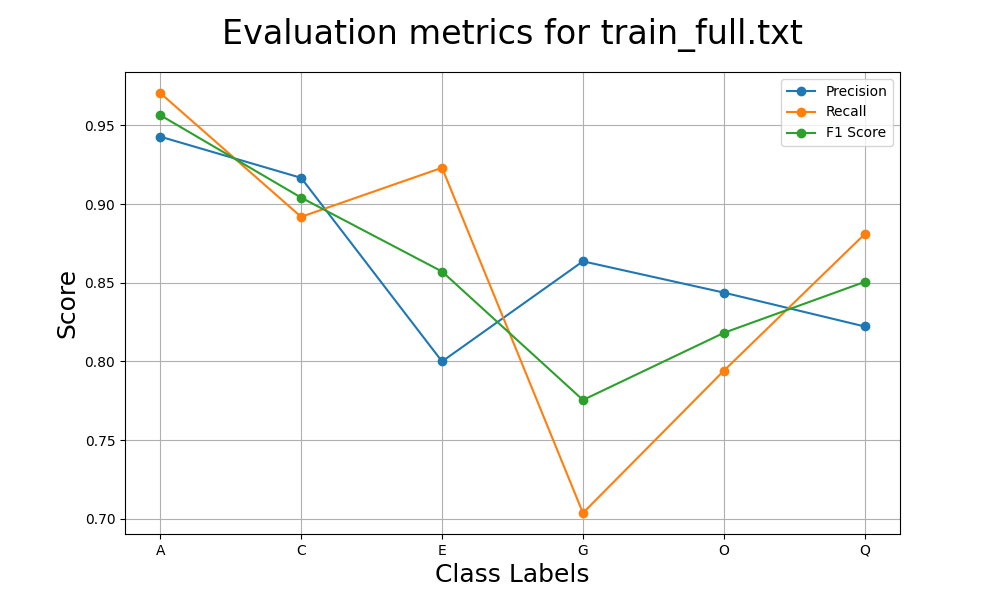
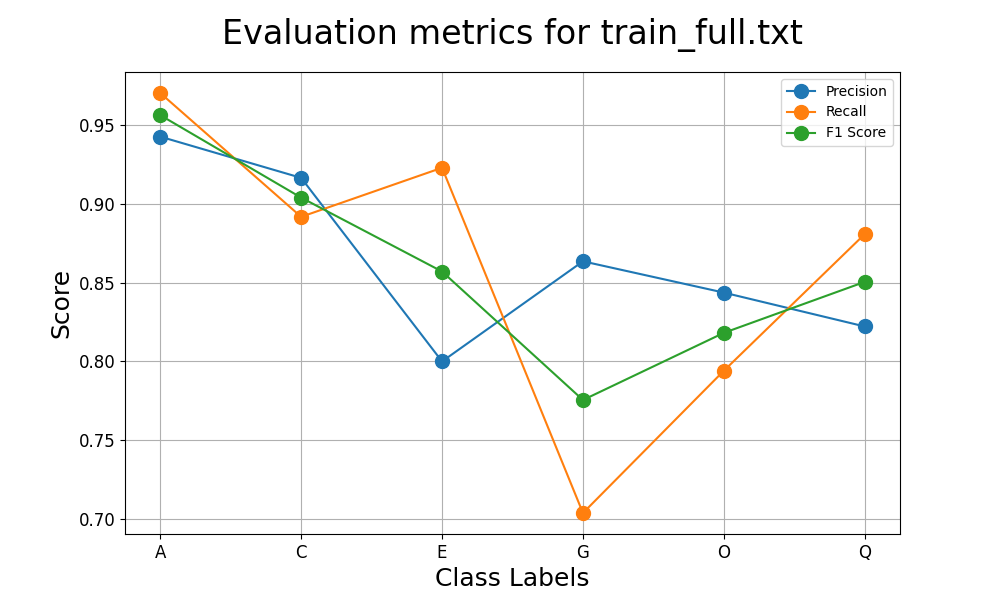
Current state of improvement.py

diff --git a/evaluation.py b/evaluation.py
@@ -176,11 +176,14 @@ def plot_confusion_matrix(confusion, class_labels, title="Confusion Matrix"):
     sns.heatmap(
         confusion,
         annot=True,
-        fmt="d",  
+        fmt="d",
         cmap="Blues",
         xticklabels=class_labels,
-        yticklabels=class_labels
+        yticklabels=class_labels,
+        annot_kws={"size": 11}
     )
+    plt.xticks(fontsize=10)
+    plt.yticks(fontsize=10)
     plt.title(f"Confusion Matrix {title}", fontsize=20, pad=20)
     plt.xlabel("Predicted", fontsize=14)
     plt.ylabel("Actual", fontsize=14)
@@ -216,14 +219,17 @@ def plot_metrics(y_gold, y_prediction, confusion, class_labels=None, title="Prec
 
     plt.figure(figsize=(10, 6))
     for metric_name, values in metrics.items():
-        plt.plot(class_labels, values, marker='o', label=metric_name)
+        plt.plot(class_labels, values, marker='o', markersize=10, label=metric_name)
 
     plt.title(f"Evaluation metrics for {title}", fontsize=24, pad=20)
     plt.xlabel("Class Labels", fontsize=18)
     plt.ylabel("Score", fontsize=18)
+    plt.xticks(fontsize=12)
+    plt.yticks(fontsize=12)
     plt.legend()
     plt.grid()
     plt.savefig(f"Eval_{title}.png")
+    plt.tight_layout()
     plt.show()
 
 def evaluate(y_gold, y_prediction, title, class_labels=None):

diff --git a/improvement.py b/improvement.py
@@ -60,7 +60,7 @@ def grid_search(x, y, n_folds=10, random_generator=np.random.default_rng(42)):
     # Define the hyperparameter ranges to test
     max_depths = [None, 5, 10]
     min_sample_splits = range(1, 3)
-    min_impurity_decreases = np.linspace(0.1, 0.5, num=3)
+    min_impurity_decreases = np.arange(0.1, 0.5, 5)
     param_combinations = cartesian_product_matrix(max_depths, min_sample_splits, min_impurity_decreases)
 
     # Grid search for all combinations of parameters
